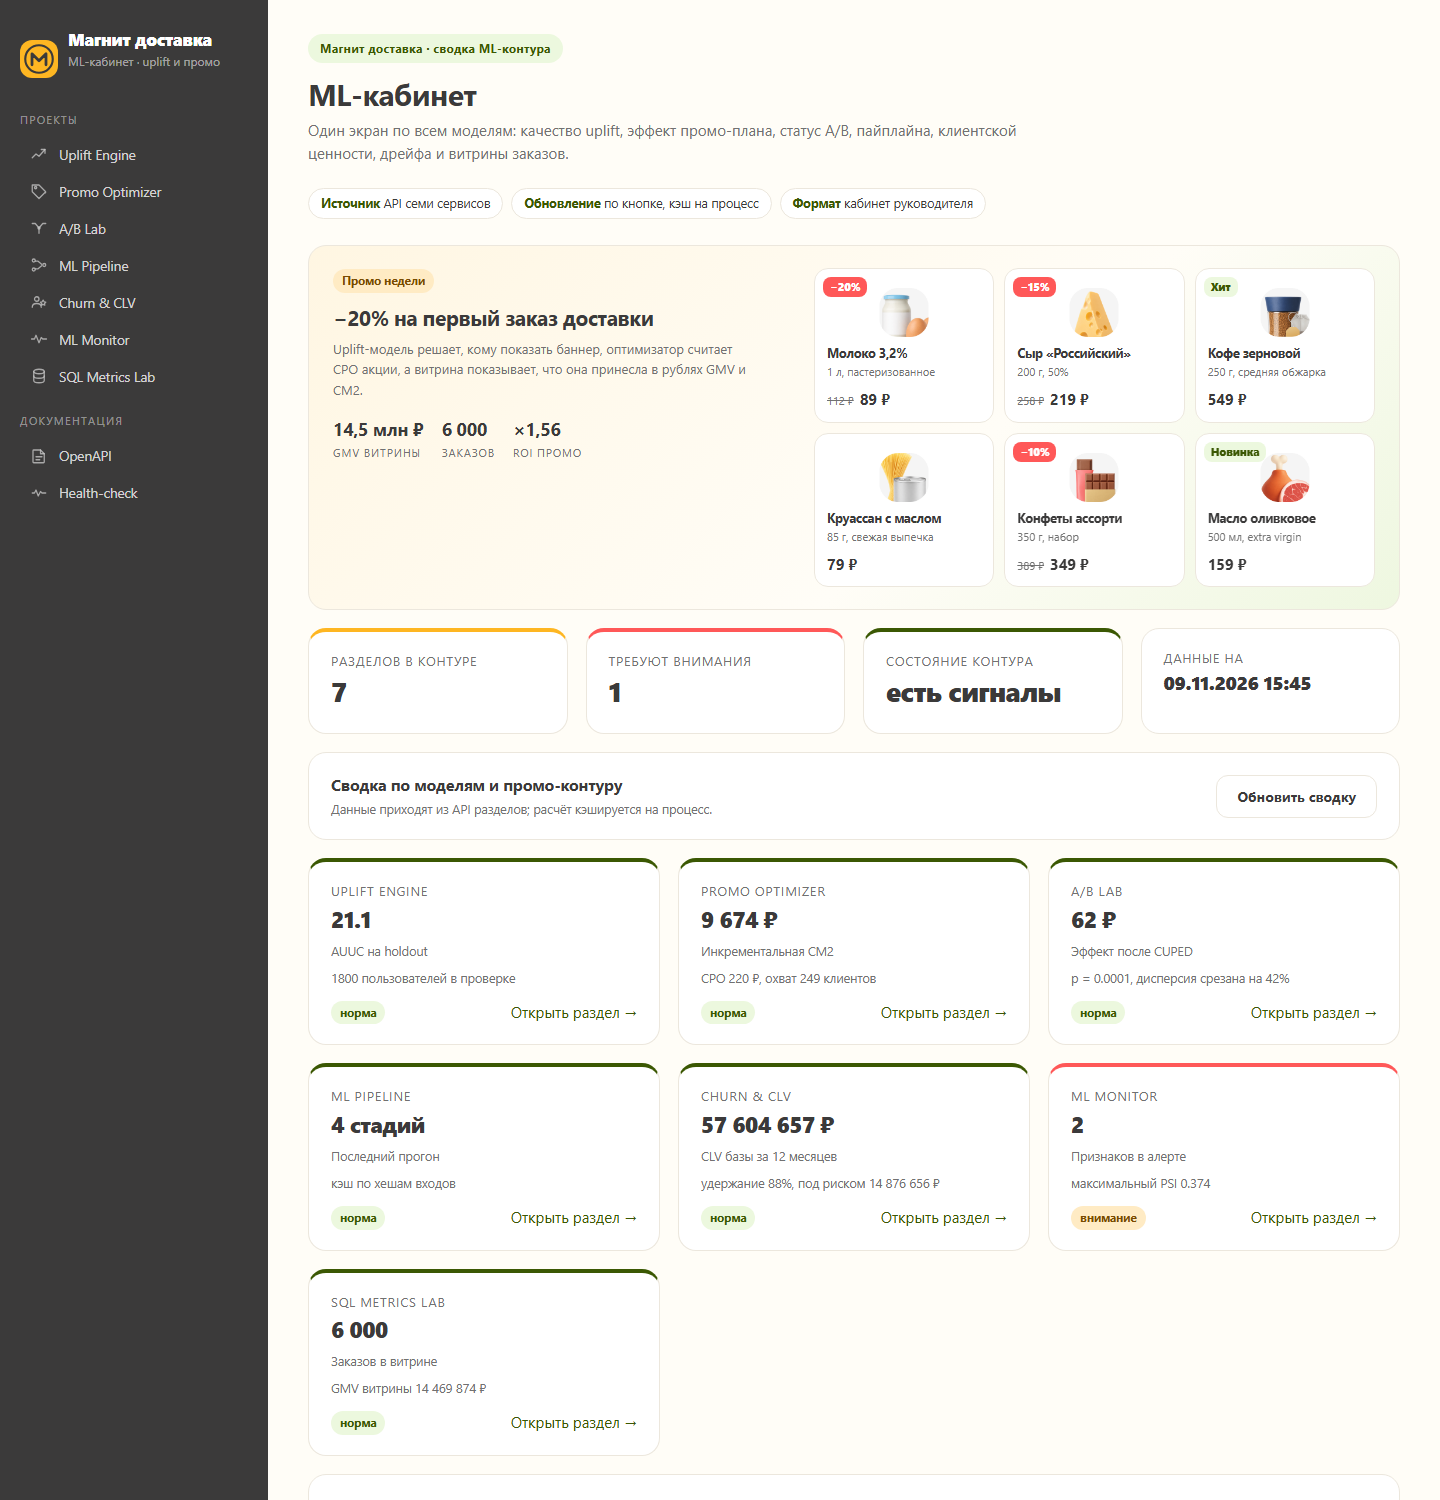
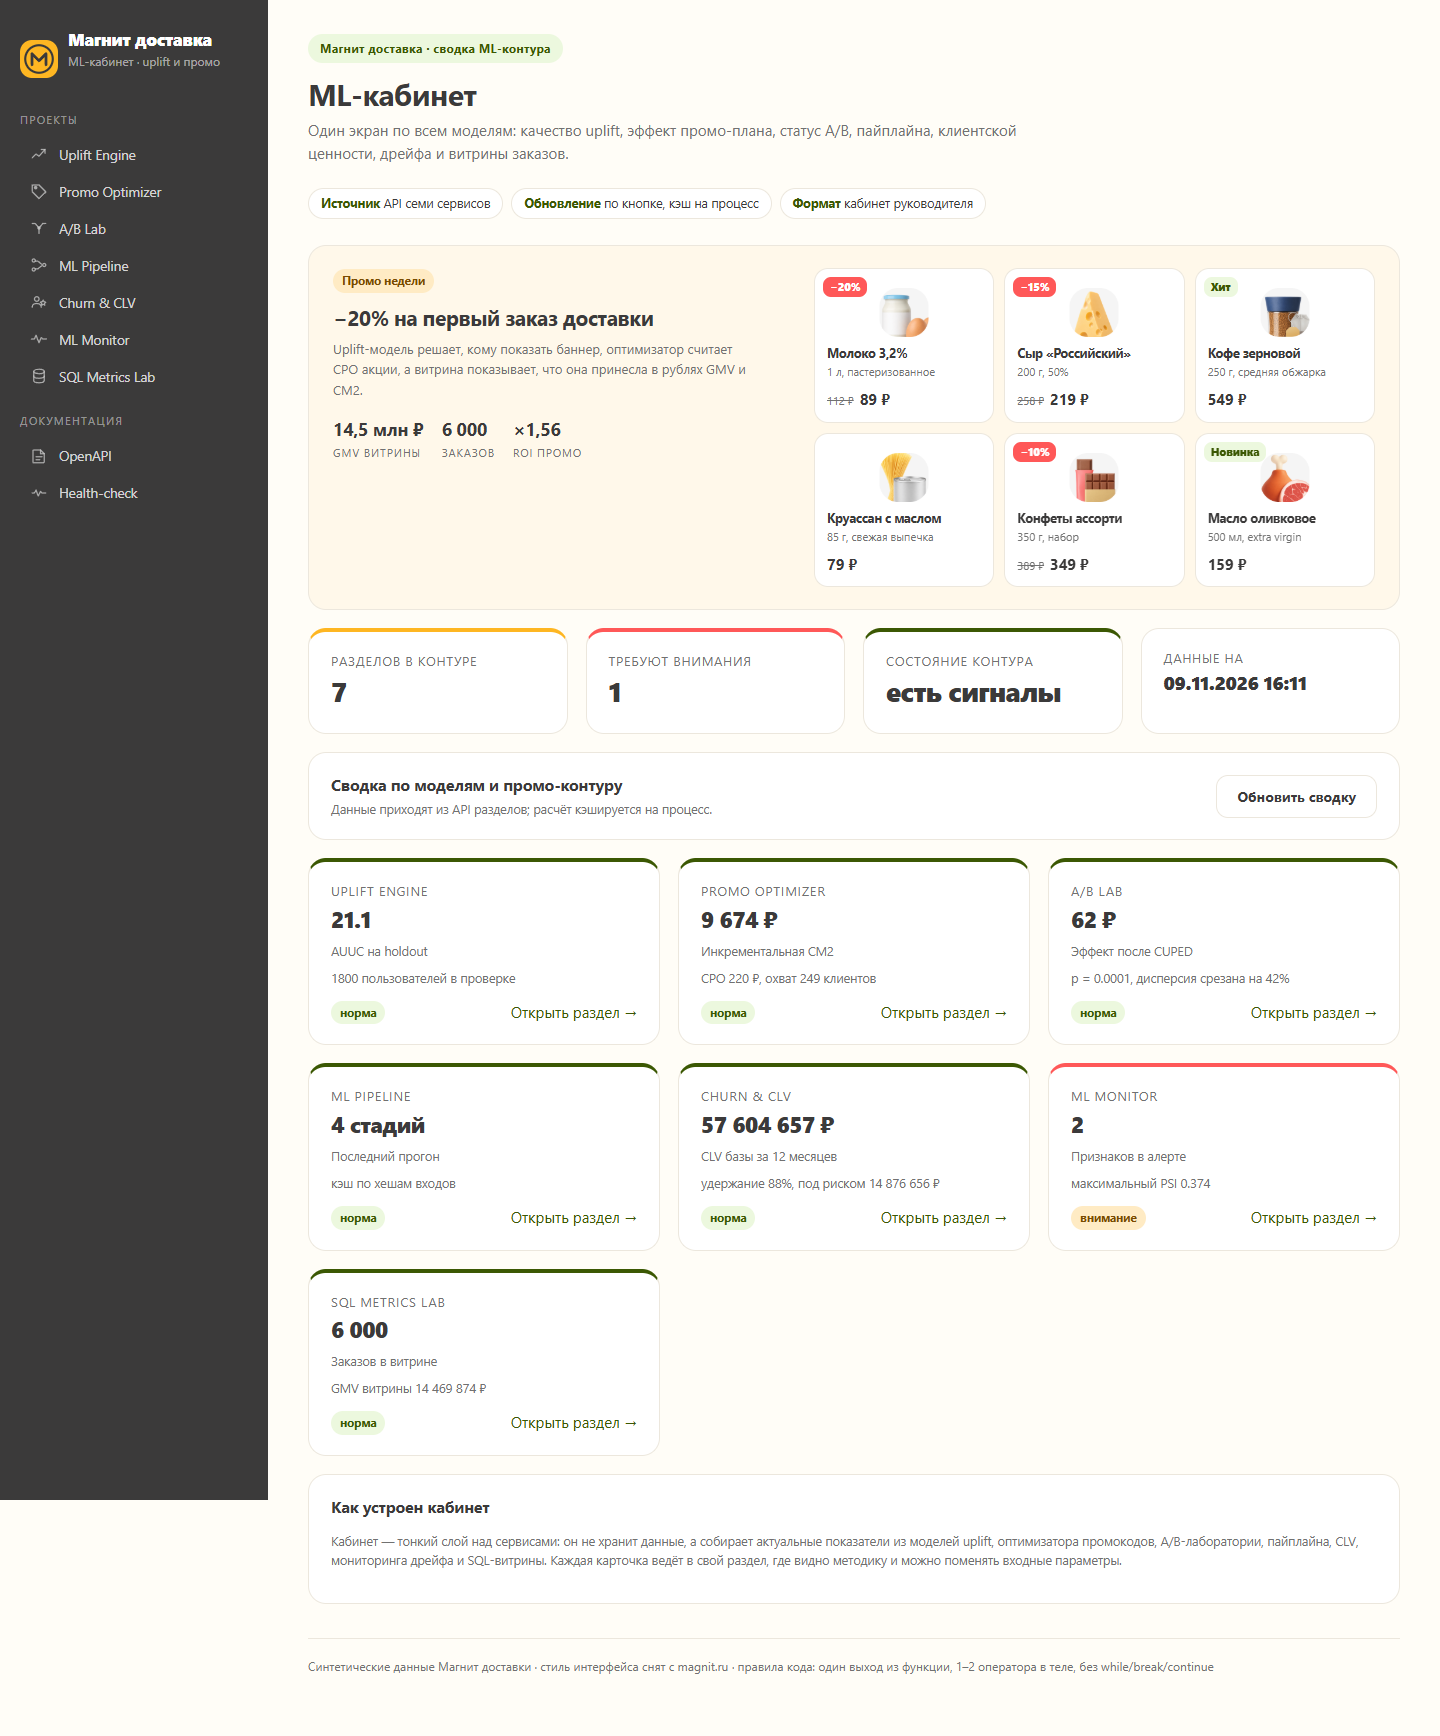
style: плоские панели без градиентов и размытия шапки

diff --git a/shared/assets/tokens.css b/shared/assets/tokens.css
@@ -161,7 +161,7 @@ footer { margin-top: 34px; padding-top: 18px; border-top: 1px solid var(--m-line
 
 .hero {
   display: grid; grid-template-columns: 1.05fr 1fr; gap: 20px; align-items: center;
-  background: linear-gradient(120deg, #fff8e8 0%, #fffdf7 55%, #f2f9e6 100%);
+  background: #fff8ea;
   border: 1px solid var(--m-line); border-radius: var(--m-radius);
   padding: 20px 22px; margin-bottom: 18px;
 }
@@ -187,9 +187,8 @@ footer { margin-top: 34px; padding-top: 18px; border-top: 1px solid var(--m-line
   position: sticky; top: 0; z-index: 20;
   display: flex; align-items: center; gap: 12px;
   padding: 10px 18px;
-  background: rgba(255, 253, 247, 0.92);
+  background: var(--m-bg);
   border-bottom: 1px solid var(--m-line);
-  backdrop-filter: blur(8px);
 }
 .appbar .brand { margin: 0; gap: 9px; }
 .appbar .brand-title { font-size: 14px; }
@@ -231,7 +230,7 @@ footer { margin-top: 34px; padding-top: 18px; border-top: 1px solid var(--m-line
 /* Продуктовая витрина кабинета: главный блок как полка магазина. */
 .showcase {
   display: grid; grid-template-columns: 0.9fr 1.1fr; gap: 22px;
-  background: linear-gradient(135deg, #fff6e2 0%, #fffdf7 60%, #eef7e0 100%);
+  background: #fff8ea;
   border: 1px solid var(--m-line); border-radius: var(--m-radius);
   padding: 22px 24px; margin-bottom: 18px;
 }
